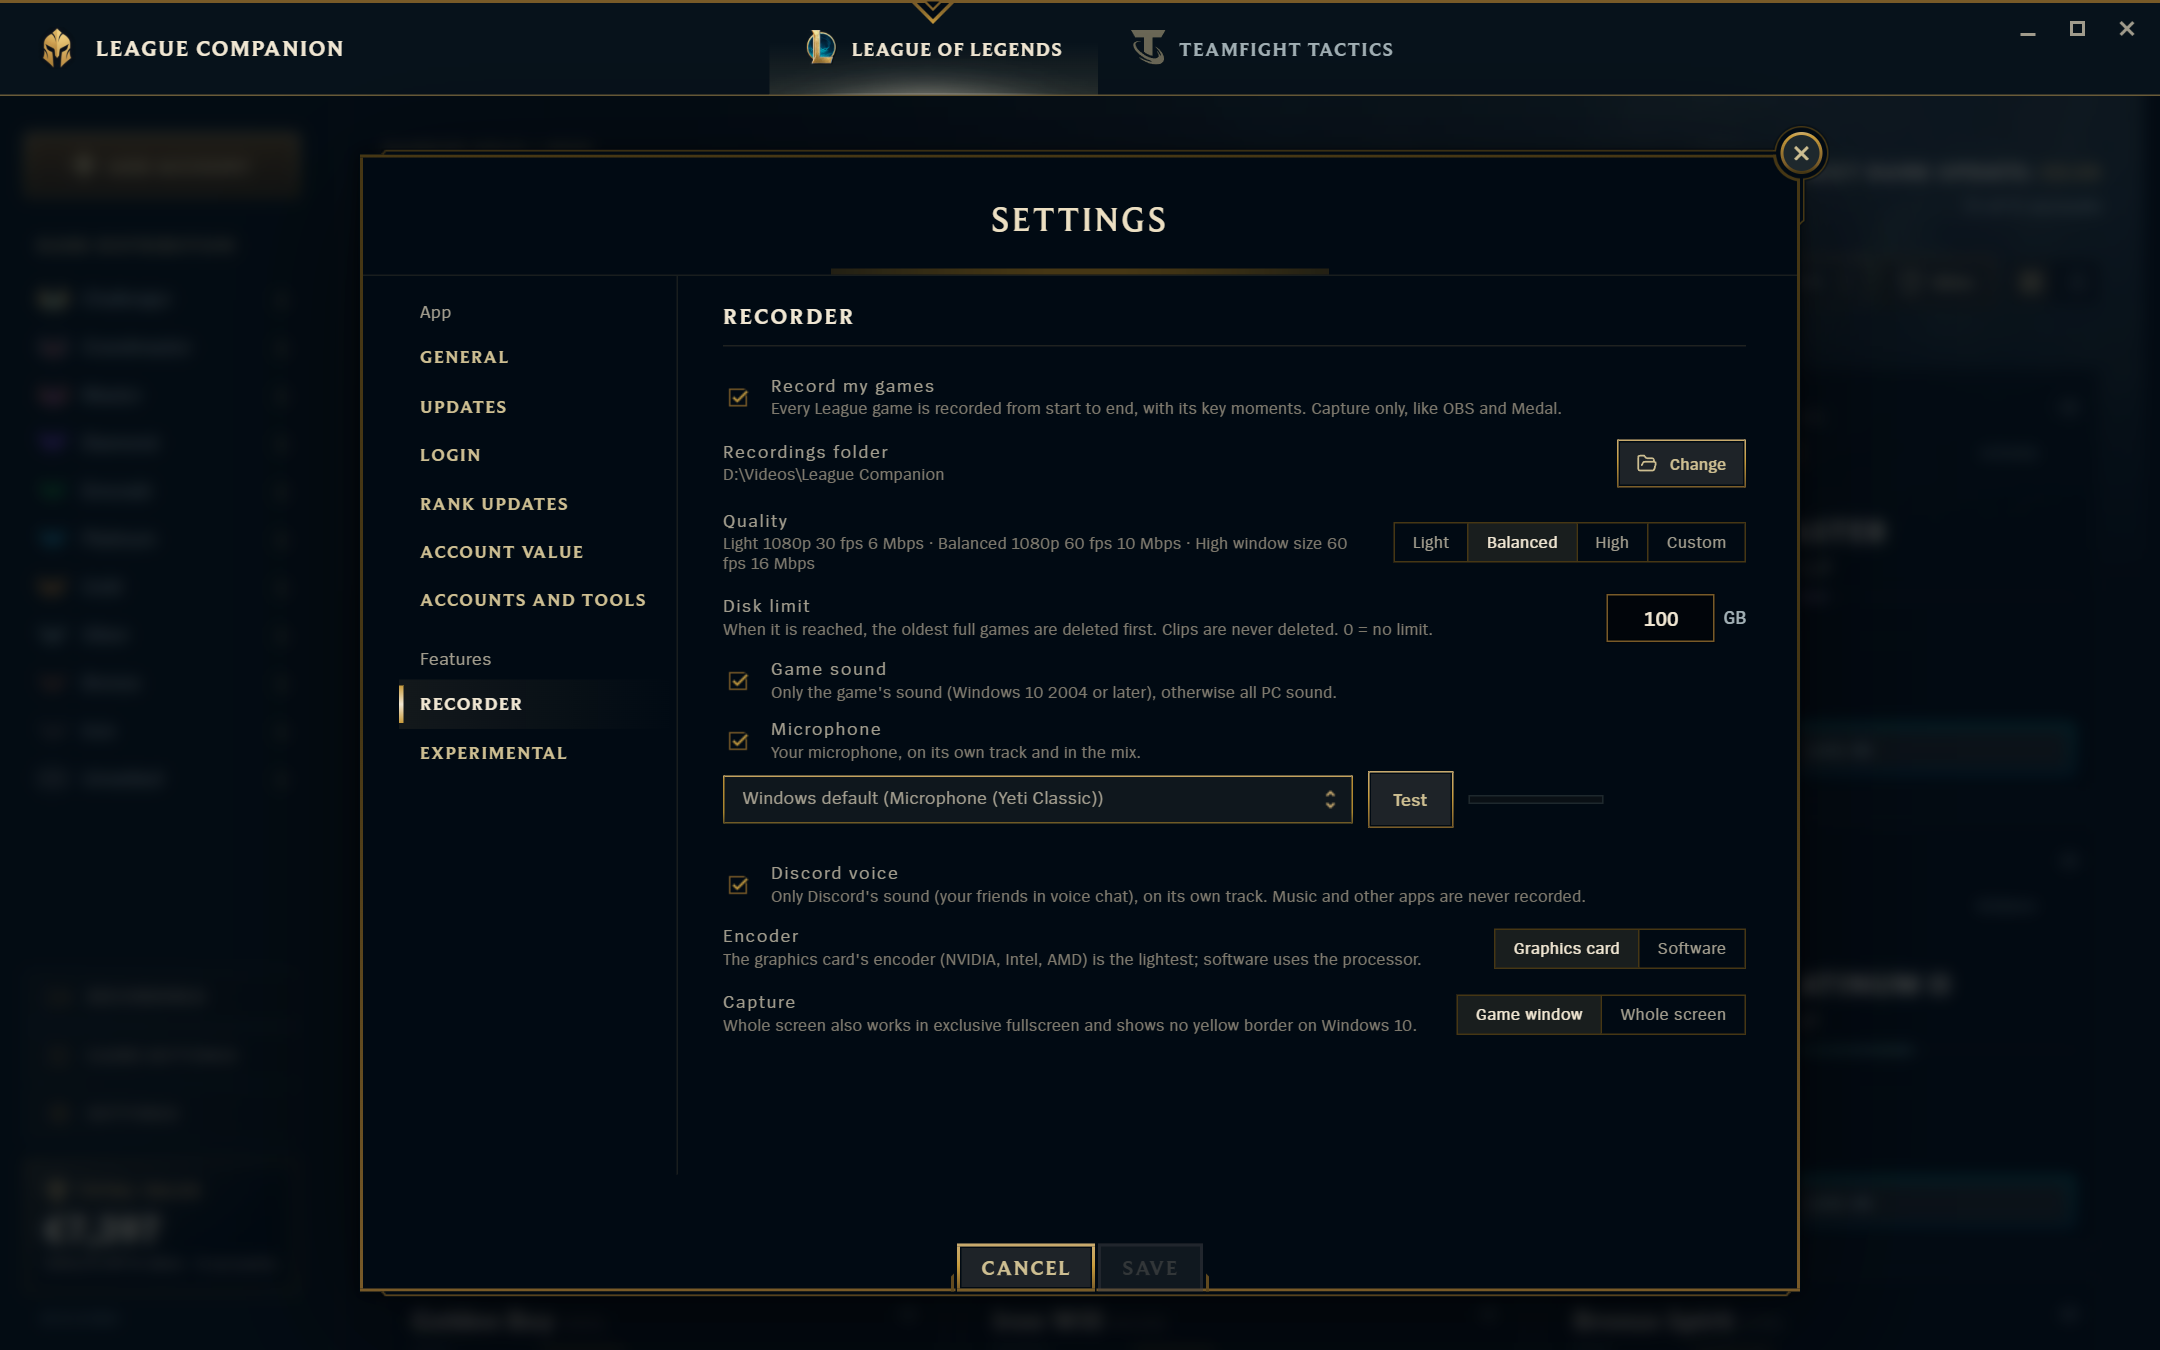
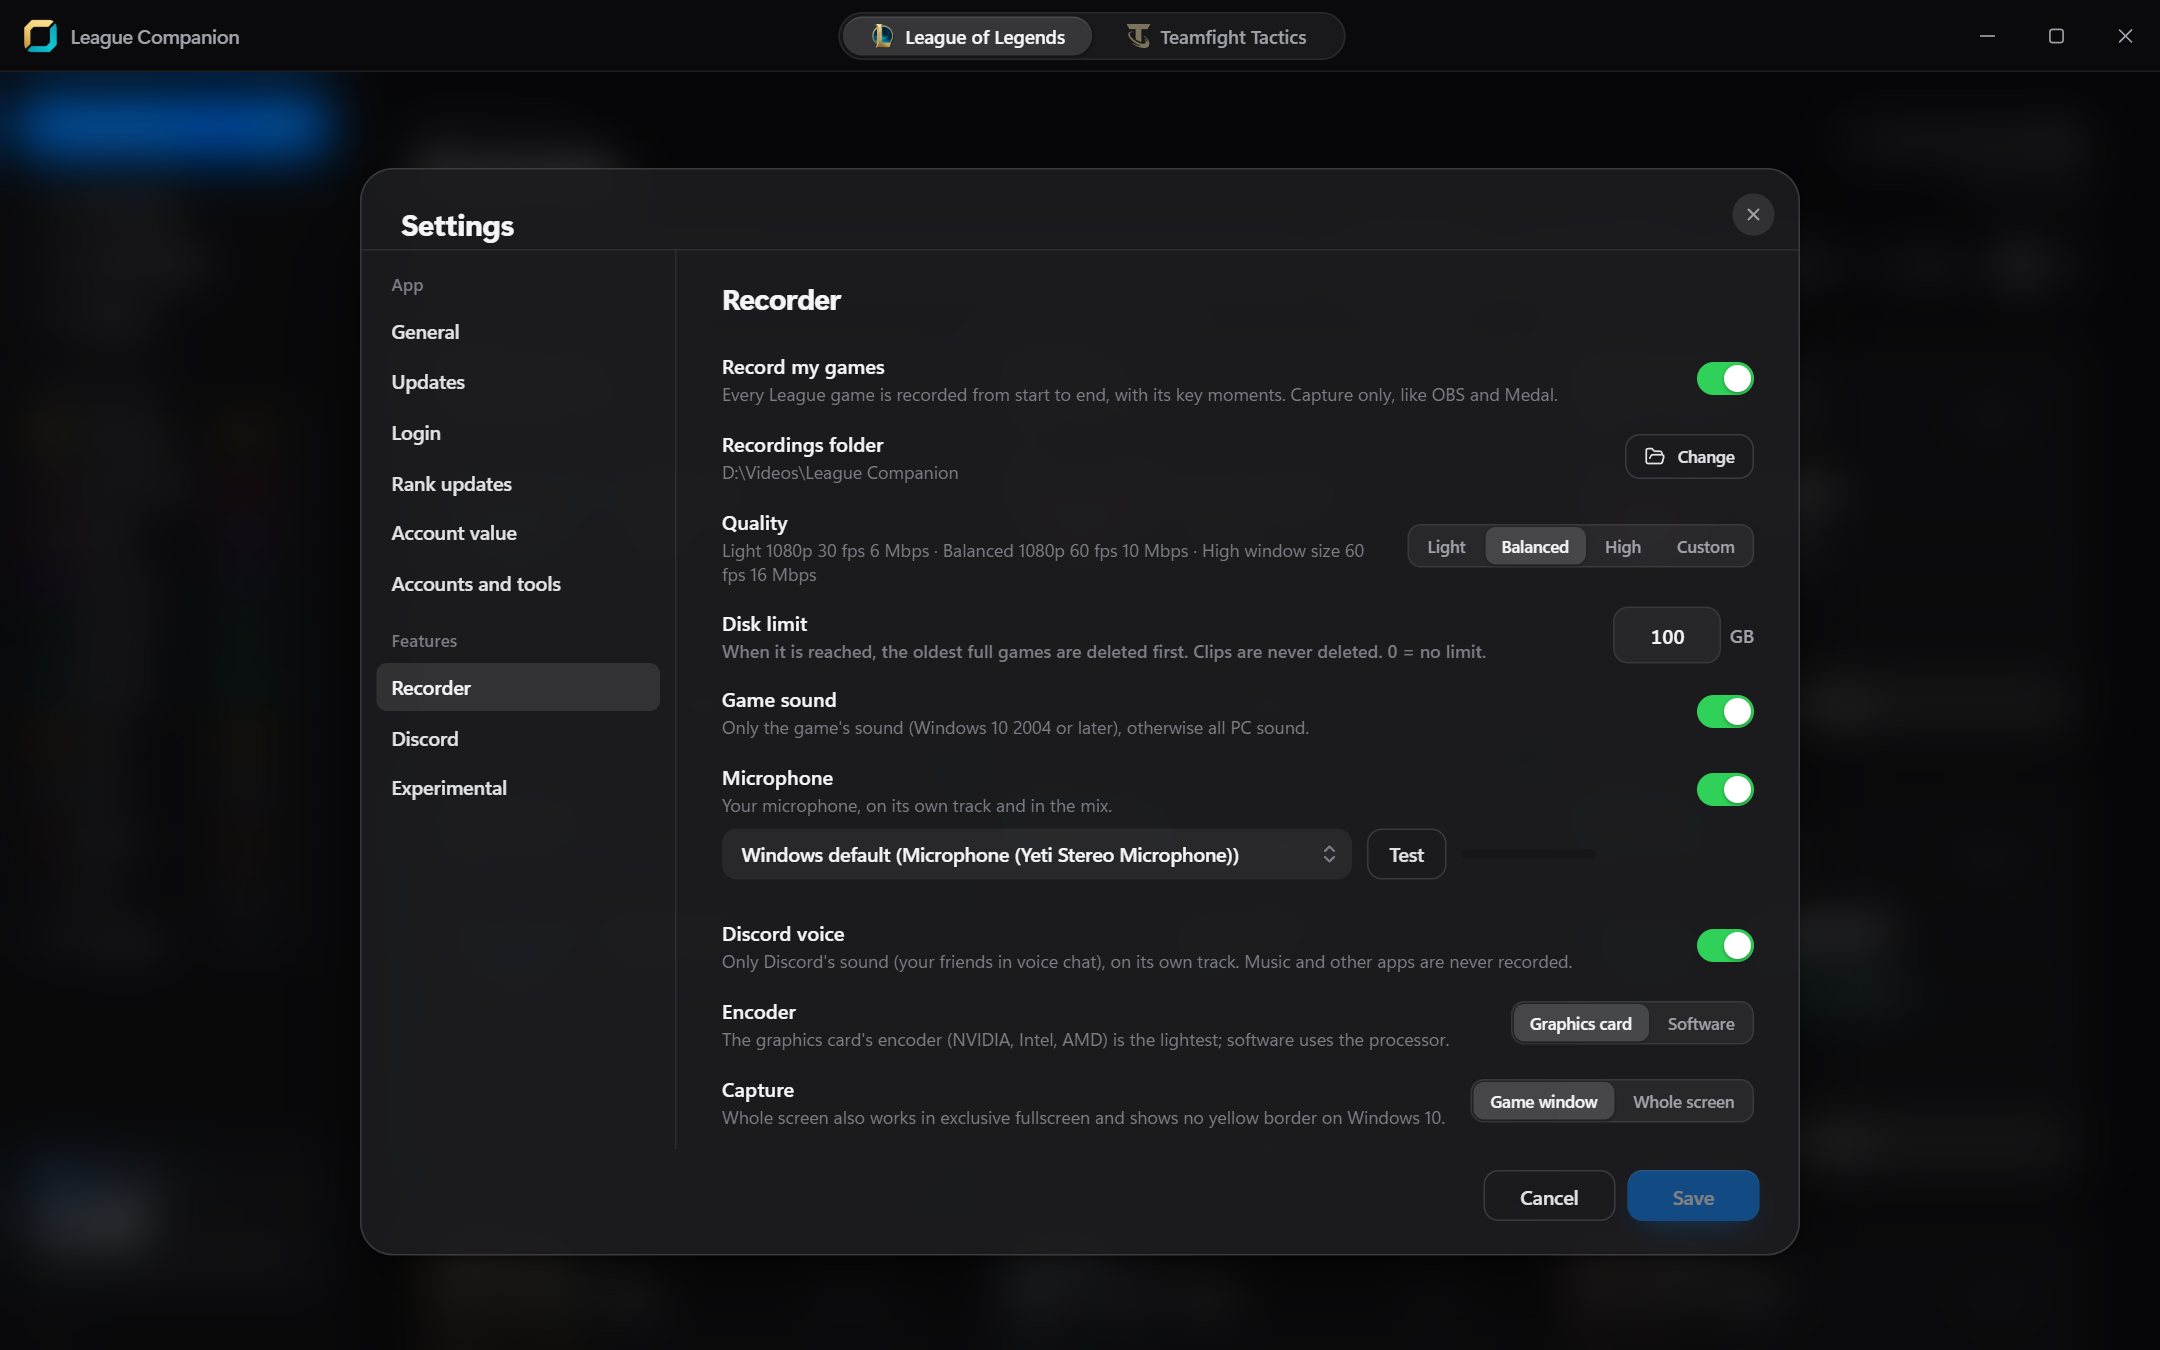
README screenshots in the new design; gold chart grid and kill map colours
All 26 README pictures retaken on demo data in the v5 look. The unused
menu.png is removed. Game stats Overview: the gold chart's grid lines and
the kill map ground were white after the redesign; they use the dark
design tokens again (ships with the next release).

diff --git a/ui/src/gameinfo.css b/ui/src/gameinfo.css
@@ -66,13 +66,13 @@ td.gi-items > * { display: inline-block; margin-right: 2px; vertical-align: midd
 .gi-overview h4 { margin: 0 0 10px; font: 600 15px/1 var(--font-display); color: var(--text); }
 .gi-gold { width: 100%; height: auto; display: block; }
 .gi-gold text { fill: var(--text-3); font-size: 11px; font-family: var(--font-text); }
-.gi-grid { stroke: var(--on-accent); stroke-width: 1; }
+.gi-grid { stroke: var(--line); stroke-width: 1; }
 .gi-area.is-blue { fill: rgb(var(--win-rgb) / 0.251); }
 .gi-area.is-red { fill: rgb(var(--loss-rgb) / 0.251); }
 .gi-line { fill: none; stroke-width: 2; }
 .gi-line.is-blue { stroke: var(--win); }
 .gi-line.is-red { stroke: var(--loss); }
-.gi-gold circle { stroke: var(--on-accent); stroke-width: 1; }
+.gi-gold circle { stroke: var(--s1); stroke-width: 1; }
 .gi-gold circle.is-blue, .gi-map circle.is-blue { fill: var(--win); }
 .gi-gold circle.is-red, .gi-map circle.is-red { fill: var(--loss); }
 .gi-strip { display: grid; grid-template-columns: 1fr; margin-top: 6px; padding: 4px 10px 8px 44px; }
@@ -85,12 +85,12 @@ td.gi-items > * { display: inline-block; margin-right: 2px; vertical-align: midd
 .gi-strip.is-blue i { background: var(--win); }
 .gi-strip.is-red i { background: var(--loss); }
 .gi-map svg { width: 100%; height: auto; display: block; border: 1px solid var(--line-2); border-radius: var(--r); }
-.gi-map-ground { fill: var(--on-accent); }
+.gi-map-ground { fill: var(--s2); }
 .gi-map-river { stroke: rgb(var(--win-rgb) / 0.2); stroke-width: 26; }
 .gi-map-lane { fill: none; stroke: var(--text-4); stroke-width: 10; stroke-linecap: square; }
 .gi-map-base.is-blue { fill: rgb(var(--win-rgb) / 0.2); stroke: var(--win); }
 .gi-map-base.is-red { fill: rgb(var(--loss-rgb) / 0.2); stroke: var(--loss); }
-.gi-map circle:not(.gi-map-base) { stroke: var(--on-accent); stroke-width: 1.5; }
+.gi-map circle:not(.gi-map-base) { stroke: var(--s1); stroke-width: 1.5; }
 .gi-map-team { display: flex; justify-content: space-between; margin-top: 10px; }
 .gi-map-team button, .gi-rune-pick button { padding: 2px; border: 1px solid transparent; border-radius: 50%; opacity: .7; }
 .gi-map-team button:hover, .gi-rune-pick button:hover { opacity: 1; }

diff --git a/README.md b/README.md
@@ -139,7 +139,7 @@ Off by default. Turn it on in Settings › Experimental. It is still under devel
 - Closing the window keeps the app in the system tray; quit from the tray icon's menu.
 - Settings opens on side tabs like the League client, and the sidebar lists Recordings, Game settings and Settings above the total value.
 - The account that is signed in right now gets a teal frame and a Connected or Playing badge, and its Log in button is disabled.
-- Since v5.0.0 the app has a new look: dark, minimal and rounded, with one blue accent (purple in TFT mode), glass menus, and soft motion. Cards lift and catch a light under the mouse, and rank crests glow in their tier color. (Screenshots below still show the look before v5.0.0.)
+- Since v5.0.0 the app has a new look: dark, minimal and rounded, with one blue accent (purple in TFT mode), glass menus, and soft motion. Cards lift and catch a light under the mouse, and rank crests glow in their tier color.
 - Champion and skin pictures are downloaded the first time you see them and then load from disk.
 
 ## Everything from the original
